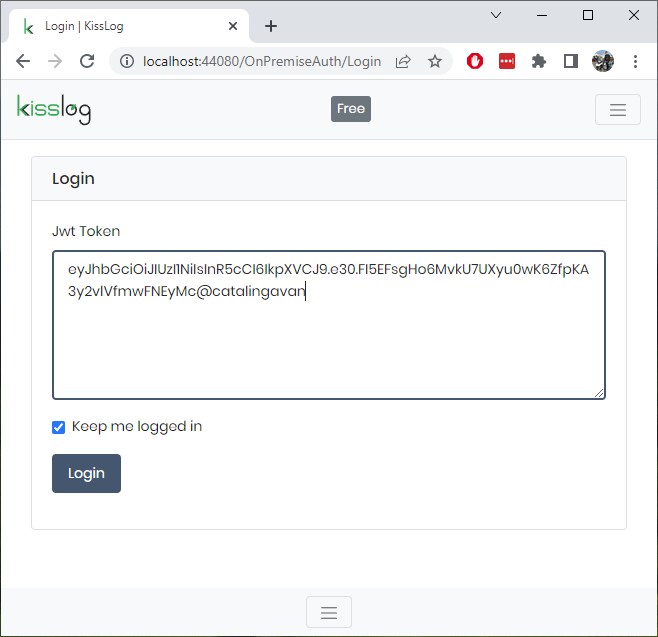
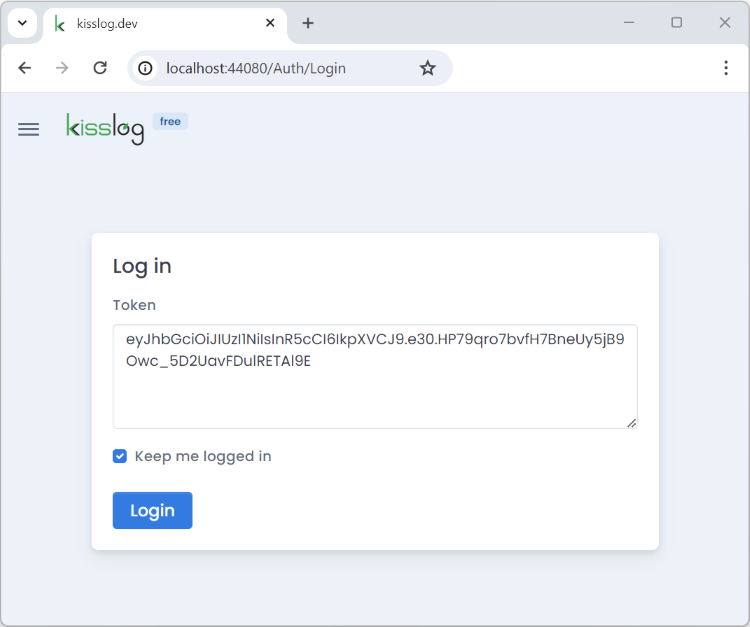
added some documentation

diff --git a/source/on-premises/installation/docker/index.rst b/source/on-premises/installation/docker/index.rst
@@ -33,144 +33,57 @@ To get started running KissLog as a Docker application, create the following fil
 
    Full working example of the files above can be found on `https://github.com/KissLog-net/KissLog-server <https://github.com/KissLog-net/KissLog-server/tree/main/Docker>`_.
 
-KissLog.Frontend will read the configuration options from ``KissLog_Docker\frontend.KissLog.json``.
-
-KissLog.Backend will read the configuration options from ``KissLog_Docker\backend.KissLog.json``.
-
 .. code-block:: none
     :caption: docker-compose.yml
 
     version: "3.7"
     networks:
-    default:
+      default:
         name: kisslog-net
         driver_opts:
-        com.docker.network.driver.mtu: 1380
-
+          com.docker.network.driver.mtu: 1380
+    
     services:
-    backend:
-        image: catalingavan/kisslog.backend:4.0.0
+      backend:
+        image: catalingavan/kisslog.backend:6.0.0
         container_name: kisslog.backend.dev
         restart: unless-stopped
         volumes:
-        - ./backend.appsettings.json:/app/appsettings.json
-        - ./backend.KissLog.json:/app/Configuration/KissLog.json
+          - ./backend.appsettings.json:/app/appsettings.json
+          - ./backend.KissLog.json:/app/Configuration/KissLog.json
         ports:
-        - "44088:80"
+          - "44088:80"
         links:
-        - "mongodb"
-
-    frontend:
-        image: catalingavan/kisslog.frontend:4.0.0
+          - "mongodb"
+    
+      frontend:
+        image: catalingavan/kisslog.frontend:6.0.0
         container_name: kisslog.frontend.dev
         restart: unless-stopped
         volumes:
-        - ./frontend.appsettings.json:/app/appsettings.json
-        - ./frontend.KissLog.json:/app/Configuration/KissLog.json
+          - ./frontend.appsettings.json:/app/appsettings.json
+          - ./frontend.KissLog.json:/app/Configuration/KissLog.json
         ports:
-        - "44080:80"
+          - "44080:80"
         links:
-        - "backend"
-        - "mariadb"
-
-    mongodb:
+          - "backend"
+    
+      mongodb:
         image: mongo:6.0.4
         container_name: kisslog.mongodb.dev
         restart: unless-stopped
         volumes:
-        - mongo-data:/data/db
-        - mongo-config:/data/configdb
-
-    mariadb:
-        image: mariadb:10.8
-        container_name: kisslog.mariadb.dev
-        restart: unless-stopped
-        volumes:
-        - mariadb-data:/var/lib/mysql
-        environment:
-        MYSQL_ROOT_PASSWORD: pass
-        MYSQL_DATABASE: KissLog_Frontend_Dev
-
+          - mongo-data:/data/db
+          - mongo-config:/data/configdb
+    
     volumes:
-    mariadb-data:
-    mongo-data:
-    mongo-config:
-
-
-.. code-block:: json
-    :caption: frontend.appsettings.json
-
-    {
-        "Logging": {
-            "LogLevel": {
-                "Default": "Warning",
-                "Microsoft": "Warning",
-                "Microsoft.Hosting.Lifetime": "Warning"
-            }
-        },
-        "ApplicationType": "OnPremises",
-        "AllowedHosts": "*",
-        "Kestrel": {
-            "EndPoints": {
-                "Http": {
-                    "Url": "http://0.0.0.0:80"
-                }
-            }
-        }
-    }
-
-.. code-block:: json
-    :caption: frontend.KissLog.json (simplified version)
-
-    {
-        "KissLogBackendUrl": "http://kisslog.backend.dev",
-        "KissLogFrontendUrl": "http://kisslog.frontend.dev",
-        "Database": {
-            "Provider": "MySql",
-            "KissLogDbContext": "server=kisslog.mariadb.dev;port=3306;database=KissLog_Frontend_Dev;uid=root;password=pass;Charset=utf8;"
-        }
-    }
-
-.. code-block:: json
-    :caption: backend.appsettings.json
-
-    {
-        "Logging": {
-            "LogLevel": {
-                "Default": "Warning",
-                "Microsoft": "Warning",
-                "Microsoft.Hosting.Lifetime": "Warning"
-            }
-        },
-        "AllowedHosts": "*",
-        "Kestrel": {
-            "EndPoints": {
-                "Http": {
-                    "Url": "http://0.0.0.0:80"
-                }
-            }
-        }
-    }
-
-.. code-block:: json
-    :caption: backend.KissLog.json (simplified version)
-
-    {
-        "KissLogBackendUrl": "http://kisslog.backend.dev",
-        "KissLogFrontendUrl": "http://kisslog.frontend.dev",
-        "Database": {
-            "Provider": "MongoDb",
-            "MongoDb": {
-                "ConnectionString": "mongodb://kisslog.mongodb.dev:27017",
-                "DatabaseName": "KissLogDev"
-            }
-        }
-    }
+      mongo-data:
+      mongo-config:
 
 Build
 -------------------------------------------------------
 
-To spawn KissLog and all the necessary prerequisites, use ``docker-compose up`` command.
+To start the KissLog server and all the necessary prerequisites, use ``docker-compose up`` command.
 
 .. code-block:: none
 
@@ -185,26 +98,16 @@ To authenticate, use the following token:
 
 .. code-block:: none
 
-    eyJhbGciOiJIUzI1NiIsInR5cCI6IkpXVCJ9.e30.FI5EFsgHo6MvkU7UXyu0wK6ZfpKA3y2vlVfmwFNEyMc@your.name.here
+   eyJhbGciOiJIUzI1NiIsInR5cCI6IkpXVCJ9.e30.HP79qro7bvfH7BneUy5jB9Owc_5D2UavFDulRETAl9E
 
 
 .. figure:: images/docker-compose-up.png
 
-   docker-compose up
-
 .. figure:: images/kisslog-frontend-docker.png
-
-   KissLog.Frontend
-
 
 .. figure:: images/kisslog-frontend-login.png
 
-   KissLog.Frontend login
-
-
 .. figure:: images/kisslog-backend-docker.png
-
-   KissLog.Backend
 
 
 Destroy
@@ -216,6 +119,3 @@ Destroy
 
 
 .. figure:: images/docker-compose-down.png
-
-   docker-compose down
-

diff --git a/source/on-premises/installation/local-server/troubleshooting.rst b/source/on-premises/installation/local-server/troubleshooting.rst
@@ -7,68 +7,18 @@ Troubleshooting
 Some of the common reasons for which the KissLog server can fail to run include:
 
 - ``Configuration\KissLog.json`` configuration errors
-- Services connectivity errors (such as SQL or Mongo DB)
+- Services connectivity errors (such as SQL or MongoDB)
 - SQL permissions errors
 
-Checklist
+Application logs
 -------------------------------------------------------
 
-Application logs
-~~~~~~~~~~~~~~~~~~~~~~~~~~~~
+Both IIS applications save their internal logs under the \\logs folder. Here should be the first place to check.
 
-Both IIS applications save their internal logs under the ``\logs`` folder. Here should be the first place to check.
-
-* ``C:\inetpub\wwwroot\KissLog.Backend\logs``
-* ``C:\inetpub\wwwroot\KissLog.Frontend\logs``
-
-IIS logs
-~~~~~~~~~~~~~~~~~~~~~~~~~~~~
-
-| If the application fails to start and there are no log messages, enable IIS logs:
-| Update ``web.config``, set ``<aspNetCore stdoutLogEnabled="true" />``, then restart the application.
-
-.. code-block:: xml
-    :caption: C:\\inetpub\\wwwroot\\KissLog.Backend\\web.config
-
-    <?xml version="1.0" encoding="utf-8"?>
-    <configuration>
-        <location path="." inheritInChildApplications="false">
-            <system.webServer>
-                <handlers>
-                    <add name="aspNetCore" path="*" verb="*" modules="AspNetCoreModuleV2" resourceType="Unspecified" />
-                </handlers>
-                <aspNetCore processPath="dotnet" arguments=".\KissLog.Backend.AspNetCore.dll" stdoutLogEnabled="true" stdoutLogFile=".\logs\stdout" hostingModel="inprocess" />
-            </system.webServer>
-        </location>
-    </configuration>
-    <!--ProjectGuid: 4EC40754-6618-4D7D-B45E-C7FE1D6B8EF6-->
-
-| **Important:**
-| Create an empty ``logs`` folder if one does not already exist.
-
-Important notes
-~~~~~~~~~~~~~~~~~~~~~~~~~~~~
-
-1) KissLog.Backend will try to connect to MongoDB. If the server is not reachable, you should see an error:
-
-   .. code-block:: none
-       :caption: C:\\inetpub\\wwwroot\\KissLog.Backend\\logs\\21-03-2022.log
-
-       Exception: A timeout occured after 30000ms selecting a server using CompositeServerSelector{ Selectors = MongoDB.Driver.MongoClient+AreSessionsSupportedServerSelector, LatencyLimitingServerSelector{ AllowedLatencyRange = 00:00:00.0150000 } }. Client view of cluster state is { ClusterId : "1", ConnectionMode : "Automatic", Type : "Unknown", State : "Disconnected", Servers : [{ ServerId: "{ ClusterId : 1, EndPoint : "Unspecified/localhost3:27017" }", EndPoint: "Unspecified/localhost:27017", ReasonChanged: "Heartbeat", State: "Disconnected", ServerVersion: , TopologyVersion: , Type: "Unknown", HeartbeatException: "MongoDB.Driver.MongoConnectionException: An exception occurred while opening a connection to the server.
-       ---> System.Net.Sockets.SocketException (11001): No such host is known.
-
-2) | KissLog.Frontend will try to connect to to SQL server.
-   | On the first run, KissLog.Frontend will also create the database (if not already exists).
-   | Any database errors, such as connection errors or database permissions, will be saved under the ``\logs`` folder.
-
-   | **Important:**
-   | If the SQL user does not have permissions to create the database, you will have to create it manually.
-   | The database generation script will be generated under ``KissLog.Frontend\logs\CreateDatabaseScript.txt``.
-
-3) Make sure you have the `ASP.NET Core Runtime 6 <https://dotnet.microsoft.com/en-us/download/dotnet/6.0>`_ installed.
-
+* C:\\inetpub\\wwwroot\\KissLog.Backend\\logs
+* C:\\inetpub\\wwwroot\\KissLog.Frontend\\logs
 
 Need help?
 -------------------------------------------------------
 
-Open a `GitHub issue <https://github.com/KissLog-net/KissLog.Sdk/issues>`_ or send an email to catalingavan@gmail.com.
+Open a `GitHub issue <https://github.com/KissLog-net/KissLog-server/issues>`_ or send an email to catalingavan@gmail.com.

diff --git a/source/on-premises/kisslog-frontend/index.rst b/source/on-premises/kisslog-frontend/index.rst
@@ -23,11 +23,11 @@ KissLog.Frontend uses a JSON Web Token (JWT) for authentication.
 
 The authentication JWT must be signed with the secret provided under ``Authorization.HS256Secret`` property from the :ref:`KissLog.json <on-premises/kisslog-frontend/configuration:Authorization>` file.
 
-For the default value of "Authorization.HS256Secret" ("_ChangeThis_4H3Q935LLRG5TEPNVUYOQPRS0SXLT3ML_"), you can use the following authentication JWT:
+For the default value of "Authorization.HS256Secret" ("00000000-0000-0000-0000-000000000000-00000000-0000-0000-0000-000000000000"), you can use the following authentication JWT:
 
 .. code-block:: none
     
-    eyJhbGciOiJIUzI1NiIsInR5cCI6IkpXVCJ9.e30.FI5EFsgHo6MvkU7UXyu0wK6ZfpKA3y2vlVfmwFNEyMc@your.name
+    eyJhbGciOiJIUzI1NiIsInR5cCI6IkpXVCJ9.e30.HP79qro7bvfH7BneUy5jB9Owc_5D2UavFDulRETAl9E
 
 Authenticated user name can be specified in one of the following options:
 
@@ -49,13 +49,13 @@ The authentication JWT can be created programmatically or online (using https://
 Tips
 ^^^^^^^^^^^^^^^^^^^^^^^^^^^^
 
-You can automate the login process by specifying the JWT as a query string parameter: `/OnPremiseAuth/Login?token={JWT}`.
+You can automate the login process by specifying the JWT as a query string parameter: `/Auth/Login?token={JWT}`.
 
 For example, you can bookmark this URL and, once accessed, KissLog will automatically login the user using the bookmarked token.
 
 .. code-block:: none
     
-    http://kisslog.myapp.com/OnPremiseAuth/Login?token=eyJhbGciOiJIUzI1NiIsInR5cCI6IkpXVCJ9.e30.FI5EFsgHo6MvkU7UXyu0wK6ZfpKA3y2vlVfmwFNEyMc@your.name
+    http://kisslog.myapp.com/Auth/Login?token=eyJhbGciOiJIUzI1NiIsInR5cCI6IkpXVCJ9.e30.HP79qro7bvfH7BneUy5jB9Owc_5D2UavFDulRETAl9E
 
 Related resources
 ------------------

diff --git a/source/on-premises/kisslog-backend/change-log.rst b/source/on-premises/kisslog-backend/change-log.rst
@@ -64,7 +64,7 @@ This release contains significant improvements for the process of saving request
 
 **Configuration changes**
 
-Introduced :ref:`UserAgentParser <on-premises/kisslog-backend/configuration/index:useragentparser>` configuration property.
+Introduced :ref:`UserAgentParserProvider <on-premises/kisslog-backend/configuration/index:useragentparserprovider>` configuration property.
 
 .. admonition:: Update guide
 

diff --git a/source/on-premises/kisslog-backend/configuration.rst b/source/on-premises/kisslog-backend/configuration.rst
@@ -591,7 +591,7 @@ UserAgentParserProvider
 
 Sets the provider which is used to parse the User-Agent header and display additional information about the Browser/OS.
 
-.. figure:: ../images/UserAgentParser.png
+.. figure:: images/UserAgentParser.png
     :alt: UserAgentParser
 
 .. code-block:: json

diff --git a/source/on-premises/kisslog-backend/index.rst b/source/on-premises/kisslog-backend/index.rst
@@ -24,5 +24,5 @@ Related resources
    :titlesonly:
    :includehidden:
 
-   configuration/index
+   configuration
    change-log
